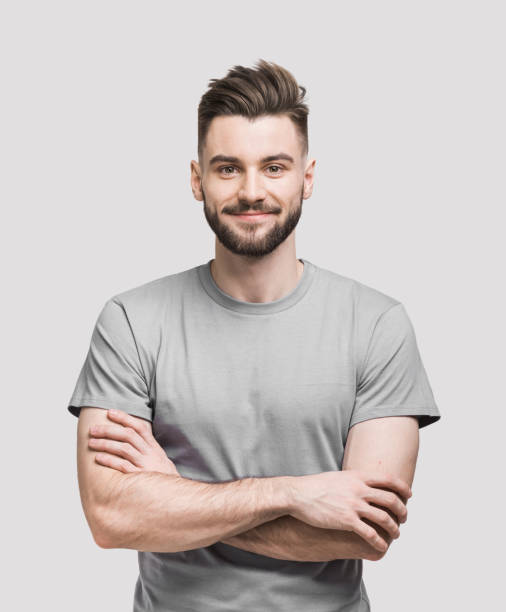
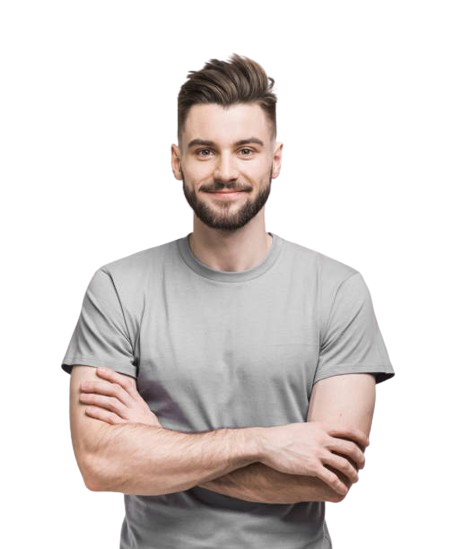
update picture and title

diff --git a/startPage.html b/startPage.html
@@ -14,7 +14,7 @@
    
 
     
-    <div class="cntr_rstrnt" alt="front page">bgfood
+    <div class="cntr_rstrnt" alt="front page">
 
         <div class="cntr_gbb">
             <img class="img_marc" src="images/stockphoto8..jpg" alt="John Richards, Owner"></img>
